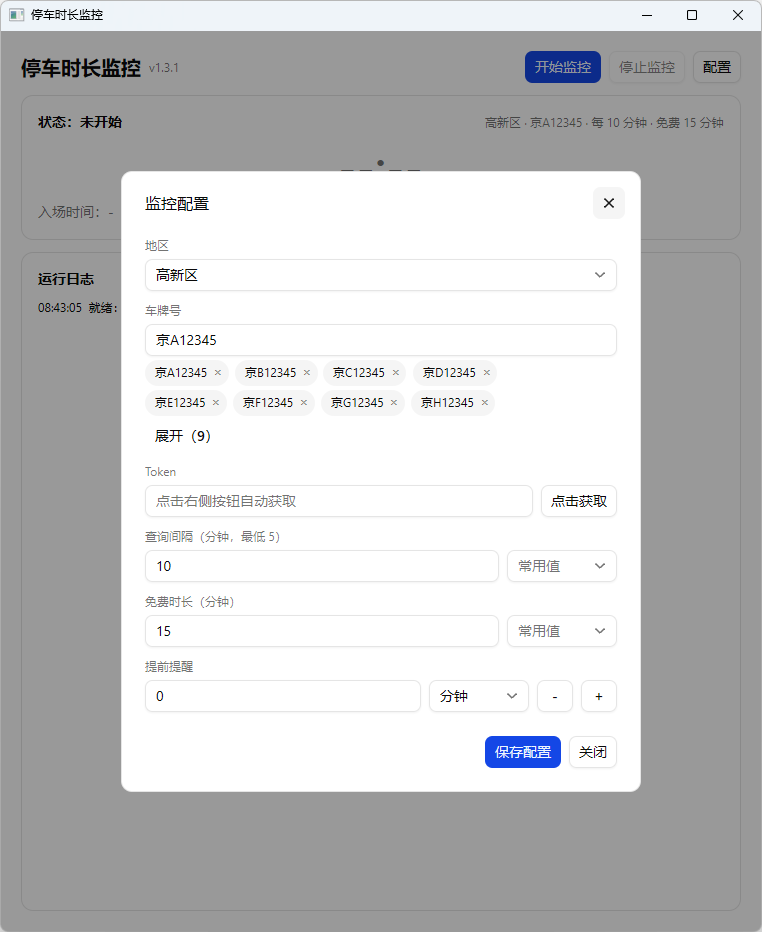
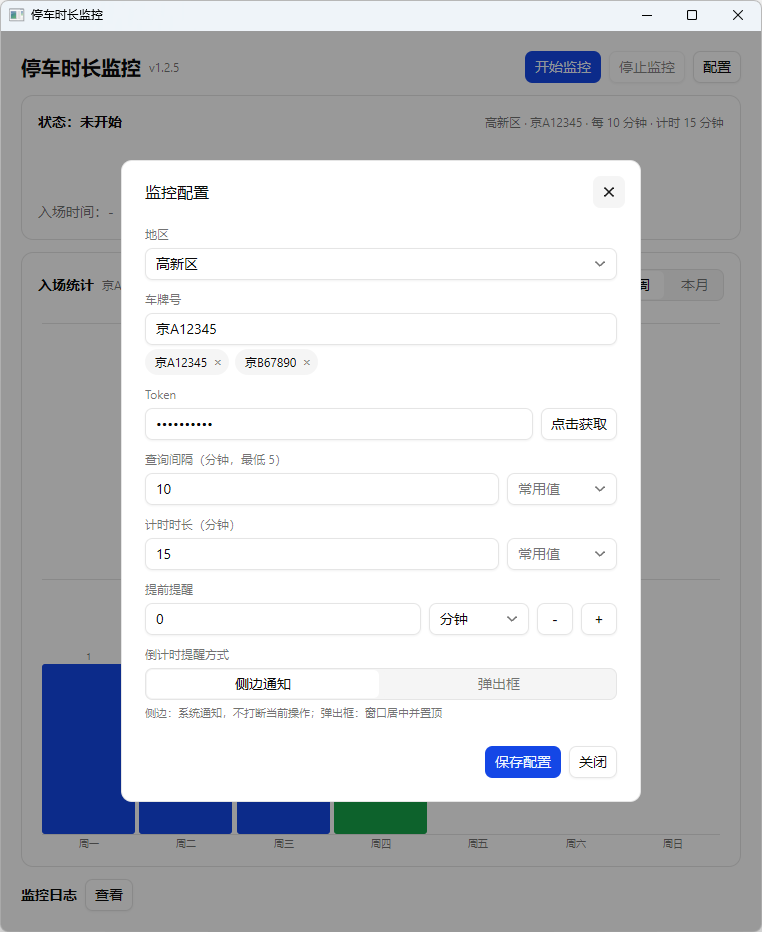
版本号升级到 1.2.5，更新界面截图

diff --git a/update.go b/update.go
@@ -18,7 +18,7 @@ import (
 )
 
 const (
-	appVersion = "1.2.4"
+	appVersion = "1.2.5"
 	githubRepo = "Miles1994/ParkingMonitor"
 )
 
